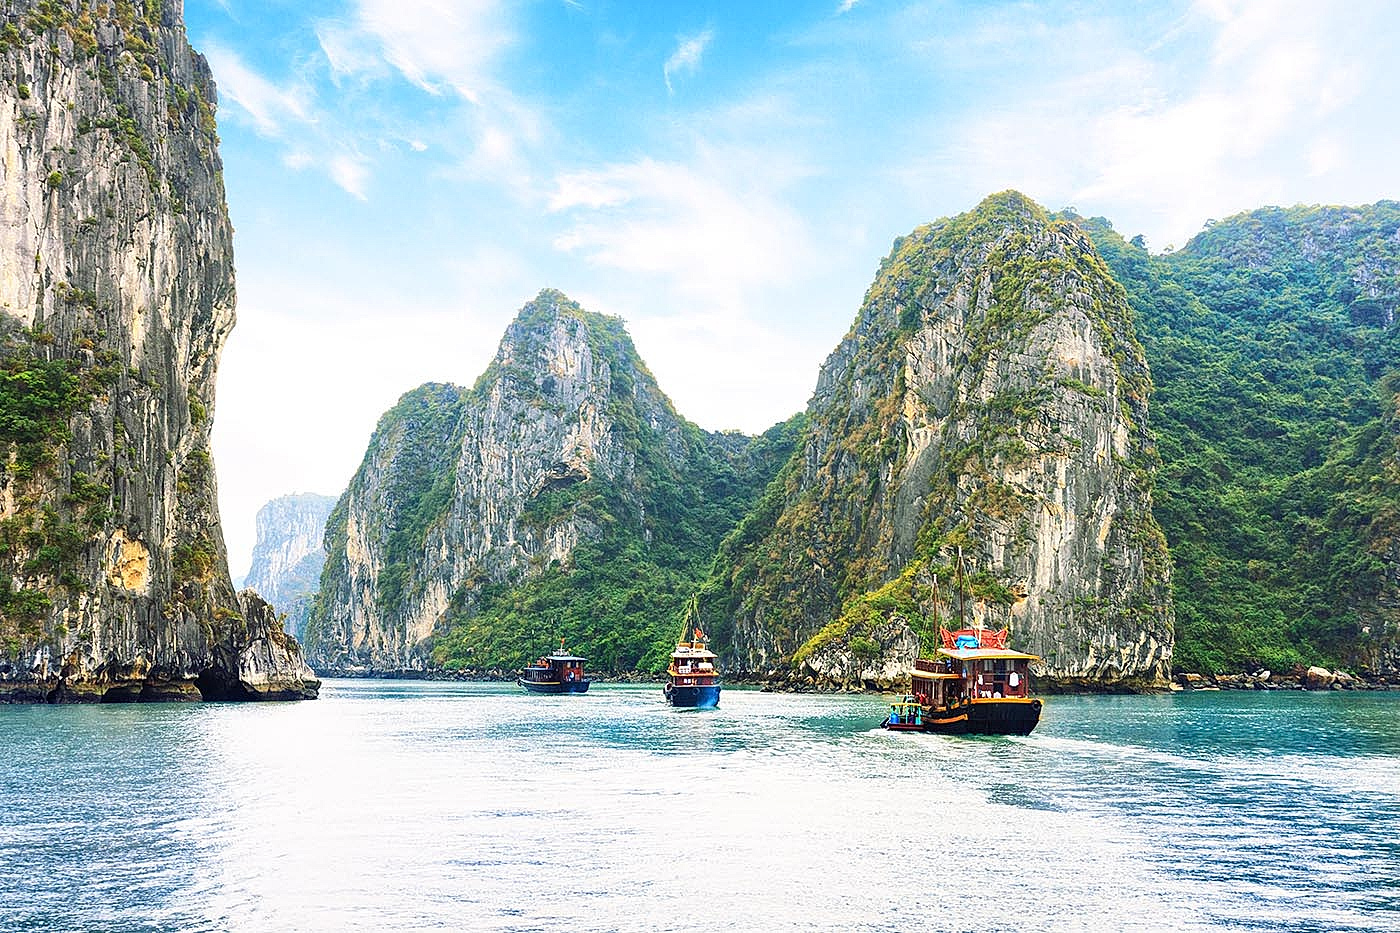
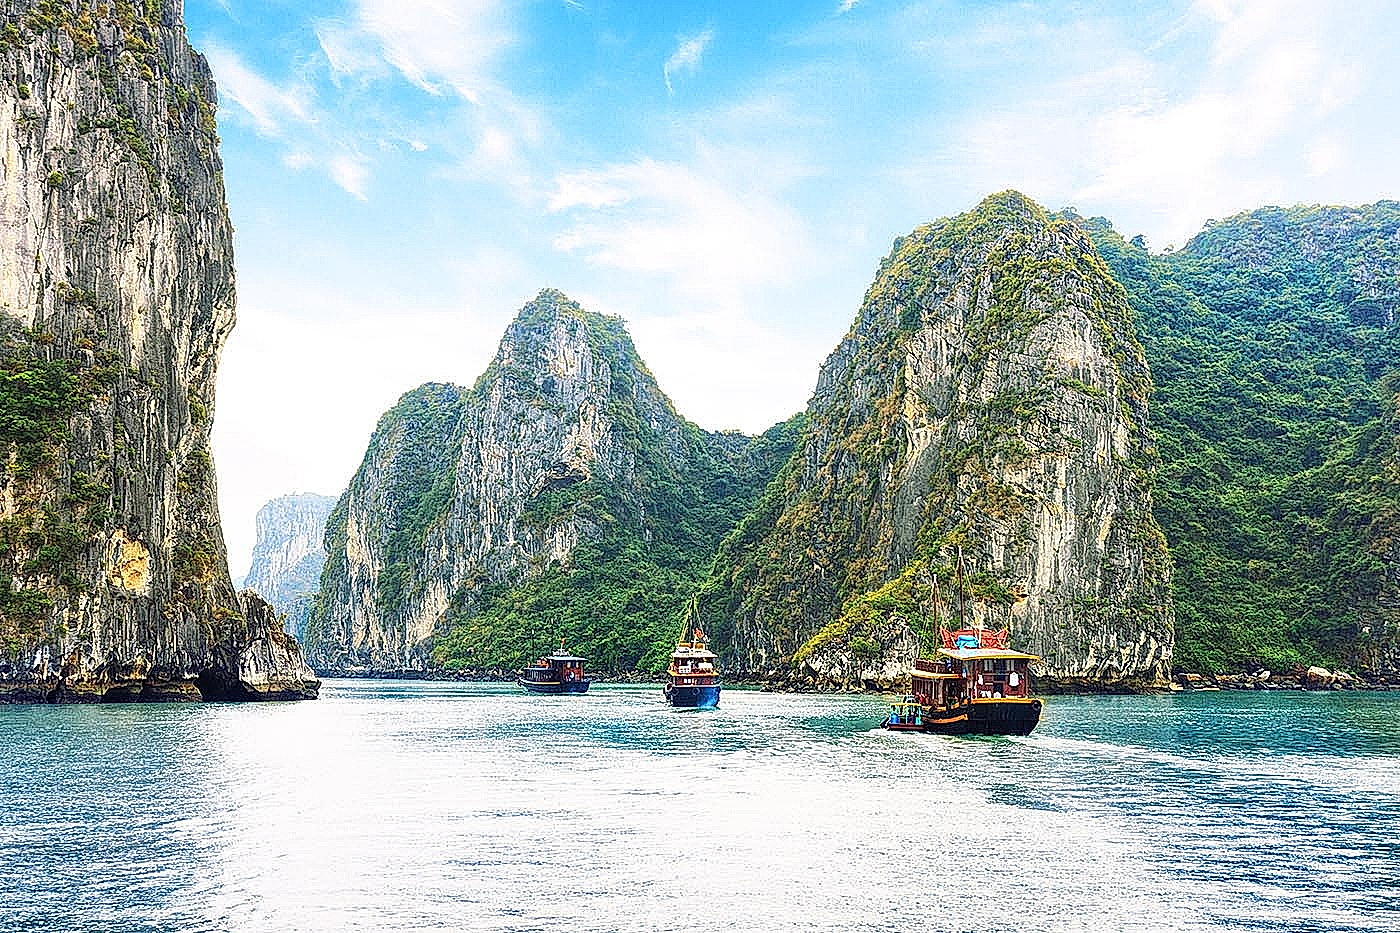
fix(guide): sharpen region images, clean watermarks on maps, and add Other Posts section

diff --git a/frontend/app/(public)/guide/the-complete-guide-to-vietnam/page.js b/frontend/app/(public)/guide/the-complete-guide-to-vietnam/page.js
@@ -1275,102 +1275,73 @@ export default function CompleteGuideToVietnamPage() {
             </Link>
           </div>
 
-          {/* ─── PHẦN 11: BÀI VIẾT LIÊN QUAN ─── */}
-          <div className="vnn-biggrid-header">
-            <h3 className="vnn-biggrid-header-title">
-              {lang === "vi" ? "Bài Viết Nổi Bật Khác" : "Other Featured Articles"}
+          {/* ─── OTHER POSTS SECTION (HÌNH 5) ─── */}
+          <section className="ad-related-section" style={{ borderTop: "1px solid #e5e7eb", marginTop: "50px", paddingTop: "40px", borderBottom: "1px solid #e5e7eb", paddingBottom: "50px", marginBottom: "40px" }}>
+            <h3 className="ad-related-title" style={{ fontFamily: '"Playfair Display", Georgia, "Times New Roman", serif', fontSize: "28px", fontWeight: "700" }}>
+              {lang === "vi" ? "Bài viết khác" : "Other Posts"}
             </h3>
-          </div>
-
-          <div className="vnn-biggrid-4">
-            {/* Card 1 (Large left): 15 Best Places */}
-            <Link href="/guide/15-best-places-to-visit-in-vietnam-in-2026" className="vnn-biggrid-item">
-              <img
-                src="/guide/hcmc/15-best-places-to-visit-in-Vietnam-in-2026.jpg"
-                alt={
-                  lang === "vi"
-                    ? "15 điểm đến tuyệt nhất Việt Nam năm 2026"
-                    : "15 Best Places to Visit in Vietnam in 2026"
-                }
-                className="vnn-biggrid-img"
-                loading="lazy"
-              />
-              <div className="vnn-biggrid-overlay" />
-              <div className="vnn-biggrid-text">
-                <h4 className="vnn-biggrid-title">
+            <div className="ad-related-grid">
+              {/* Card 1: 15 best places */}
+              <Link
+                href="/guide/15-best-places-to-visit-in-vietnam-in-2026"
+                className="ad-related-card"
+              >
+                <div className="ad-related-card__img-wrap">
+                  <img
+                    src="/guide/megamenu/inspired-1.jpg"
+                    alt="15 best places to visit in Vietnam in 2026"
+                    className="ad-related-card__img"
+                    loading="lazy"
+                  />
+                </div>
+                <h4 className="ad-related-card__title">
                   {lang === "vi"
                     ? "15 điểm đến tuyệt nhất Việt Nam năm 2026"
-                    : "15 Best Places to Visit in Vietnam in 2026"}
+                    : "15 best places to visit in Vietnam in 2026"}
                 </h4>
-              </div>
-            </Link>
+              </Link>
 
-            {/* Card 2 (Right row 1): Plan Trip With AI */}
-            <Link href="/guide/plan-your-vietnam-trip-with-just-one-prompt" className="vnn-biggrid-item">
-              <img
-                src="/guide/hcmc/Plan-Your-Vietnam-Trip-with-Just-One-Prompt.jpg"
-                alt={
-                  lang === "vi"
-                    ? "Lên kế hoạch du lịch bằng AI"
-                    : "Plan Your Vietnam Trip with AI"
-                }
-                className="vnn-biggrid-img"
-                loading="lazy"
-              />
-              <div className="vnn-biggrid-overlay" />
-              <div className="vnn-biggrid-text">
-                <h4 className="vnn-biggrid-title">
+              {/* Card 2: Plan Your Vietnam Trip */}
+              <Link
+                href="/guide/plan-your-vietnam-trip-with-just-one-prompt"
+                className="ad-related-card"
+              >
+                <div className="ad-related-card__img-wrap">
+                  <img
+                    src="/guide/megamenu/inspired-2.jpg"
+                    alt="Plan Your Vietnam Trip with Just One Prompt"
+                    className="ad-related-card__img"
+                    loading="lazy"
+                  />
+                </div>
+                <h4 className="ad-related-card__title">
                   {lang === "vi"
-                    ? "Lên kế hoạch du lịch bằng AI"
-                    : "Plan Your Vietnam Trip with AI"}
+                    ? "Lên kế hoạch du lịch Việt Nam chỉ với một prompt"
+                    : "Plan Your Vietnam Trip with Just One Prompt"}
                 </h4>
-              </div>
-            </Link>
+              </Link>
 
-            {/* Card 3 (Right row 2): 10 Best Things in HCMC */}
-            <Link href="/guide/10-best-things-to-do-in-ho-chi-minh-city" className="vnn-biggrid-item">
-              <img
-                src="/guide/megamenu/todo-2-hcmc.jpg"
-                alt={
-                  lang === "vi"
-                    ? "10 trải nghiệm tuyệt nhất tại TP.HCM"
-                    : "10 Best Things to Do in Ho Chi Minh City"
-                }
-                className="vnn-biggrid-img"
-                loading="lazy"
-              />
-              <div className="vnn-biggrid-overlay" />
-              <div className="vnn-biggrid-text">
-                <h4 className="vnn-biggrid-title">
+              {/* Card 3: 20 Best Things to Do */}
+              <Link
+                href="/guide/20-best-things-to-do-in-vietnam"
+                className="ad-related-card"
+              >
+                <div className="ad-related-card__img-wrap">
+                  <img
+                    src="/guide/megamenu/inspired-4.jpg"
+                    alt="20 Best Things to Do in Vietnam"
+                    className="ad-related-card__img"
+                    loading="lazy"
+                  />
+                </div>
+                <h4 className="ad-related-card__title">
                   {lang === "vi"
-                    ? "10 trải nghiệm tuyệt nhất tại TP.HCM"
-                    : "10 Best Things to Do in Ho Chi Minh City"}
-                </h4>
-              </div>
-            </Link>
-
-            {/* Card 4 (Right row 3): 20 Best Things in Vietnam */}
-            <Link href="/guide/20-best-things-to-do-in-vietnam" className="vnn-biggrid-item">
-              <img
-                src="/guide/megamenu/inspired-4.jpg"
-                alt={
-                  lang === "vi"
-                    ? "20 trải nghiệm nhất định phải thử tại Việt Nam"
-                    : "20 Best Things to Do in Vietnam"
-                }
-                className="vnn-biggrid-img"
-                loading="lazy"
-              />
-              <div className="vnn-biggrid-overlay" />
-              <div className="vnn-biggrid-text">
-                <h4 className="vnn-biggrid-title">
-                  {lang === "vi"
-                    ? "20 trải nghiệm nhất định phải thử"
+                    ? "20 trải nghiệm tuyệt nhất tại Việt Nam"
                     : "20 Best Things to Do in Vietnam"}
                 </h4>
-              </div>
-            </Link>
-          </div>
+              </Link>
+            </div>
+          </section>
         </div>
       </main>
 
